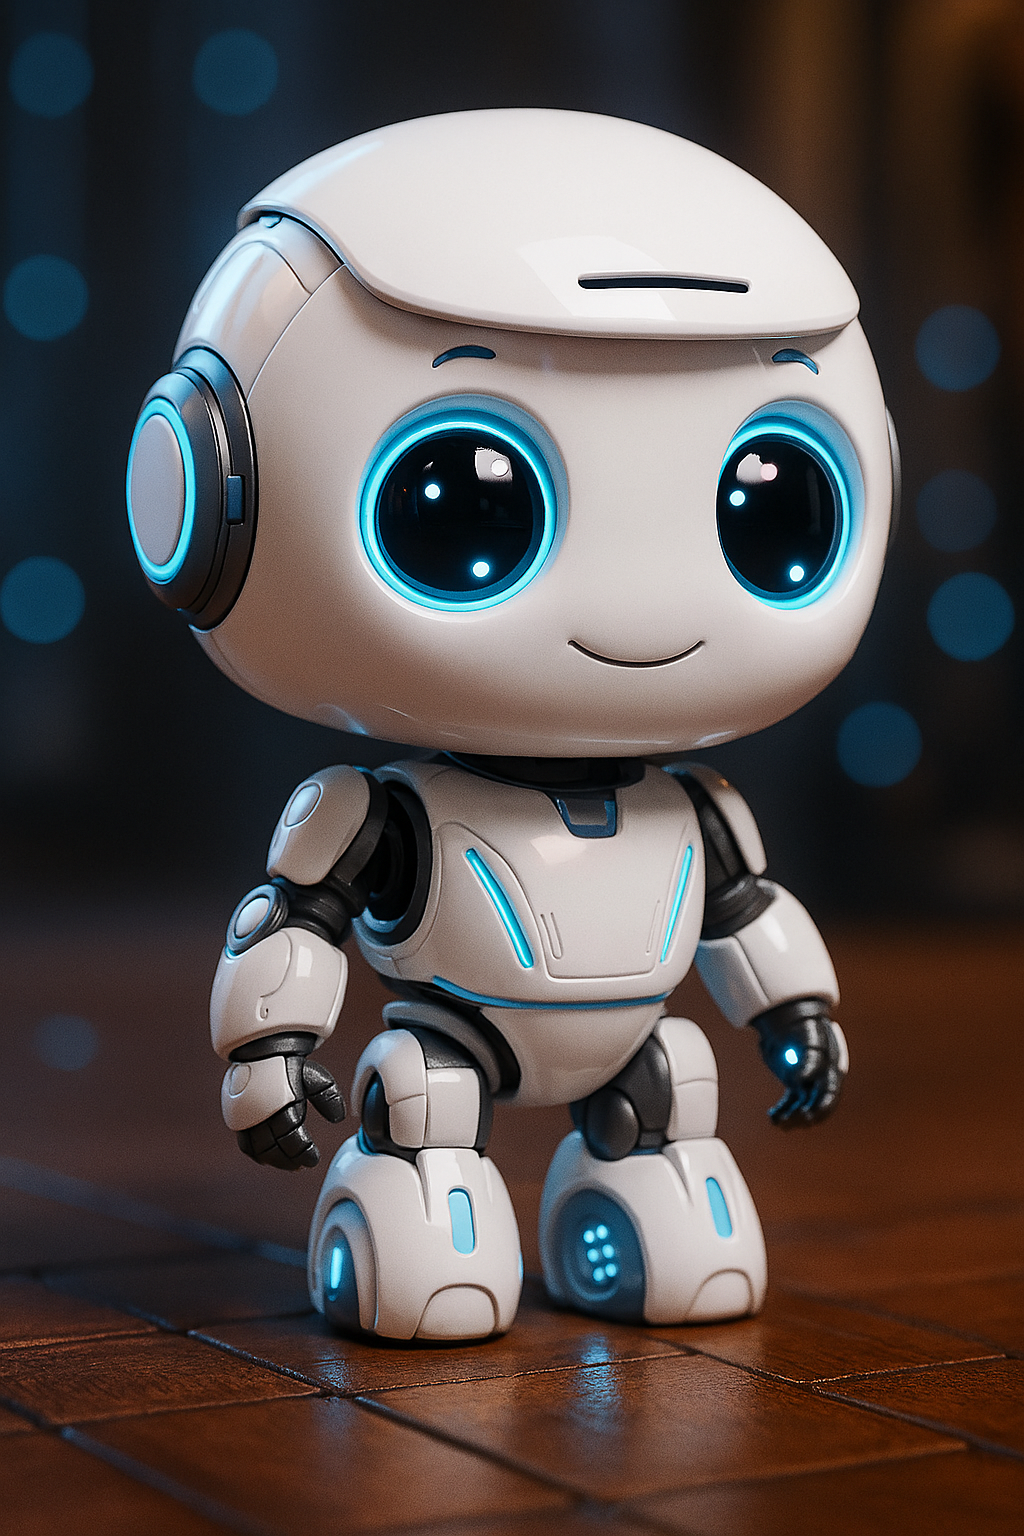
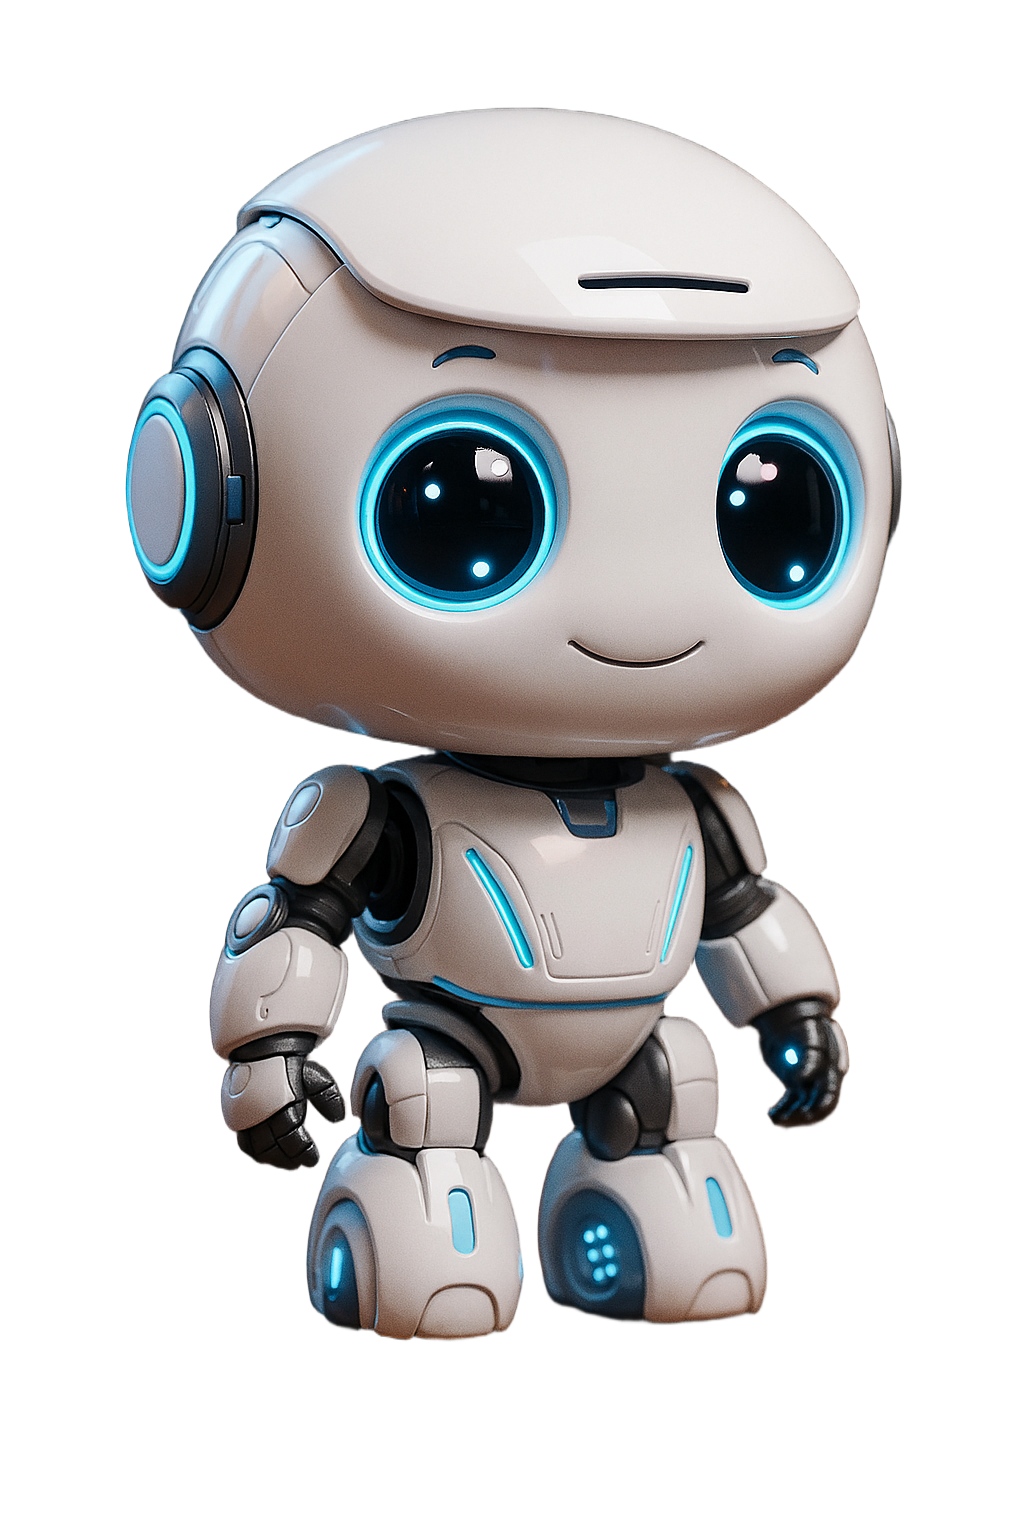
✨ Update: Robô com fundo transparente + sombras profissionais
- Substituir por versão sem fundo (robot-cute.png transparente)
- Remover mixBlendMode para imagem transparente
- Adicionar sombra dupla: escura (profundidade) + azul (glow)
- Manter object-contain para proporções perfeitas
- Robô agora flutua no background do card!

Agora o robozinho está perfeito e integrado! 🤖💫

🤖 Generated with [Claude Code](https://claude.ai/code)

diff --git a/src/components/DashboardContent.tsx b/src/components/DashboardContent.tsx
@@ -741,13 +741,16 @@ export default function DashboardContent() {
               <div className="text-center flex-1 flex flex-col justify-between">
                 <div>
                   <div className="mb-6 group-hover:scale-110 transition-transform duration-300 flex justify-center">
-                    <div className="relative w-18 h-18 rounded-full overflow-hidden shadow-lg">
+                    <div className="relative w-18 h-18 flex items-center justify-center">
                       <Image
                         src="/images/robot-cute.png"
                         alt="Robô Tutor AI Super Fofo"
                         width={72}
                         height={72}
-                        className="object-cover w-full h-full"
+                        className="object-contain"
+                        style={{
+                          filter: 'drop-shadow(0 4px 12px rgba(0, 0, 0, 0.15)) drop-shadow(0 0 8px rgba(147, 197, 253, 0.2))',
+                        }}
                         priority
                       />
                     </div>
